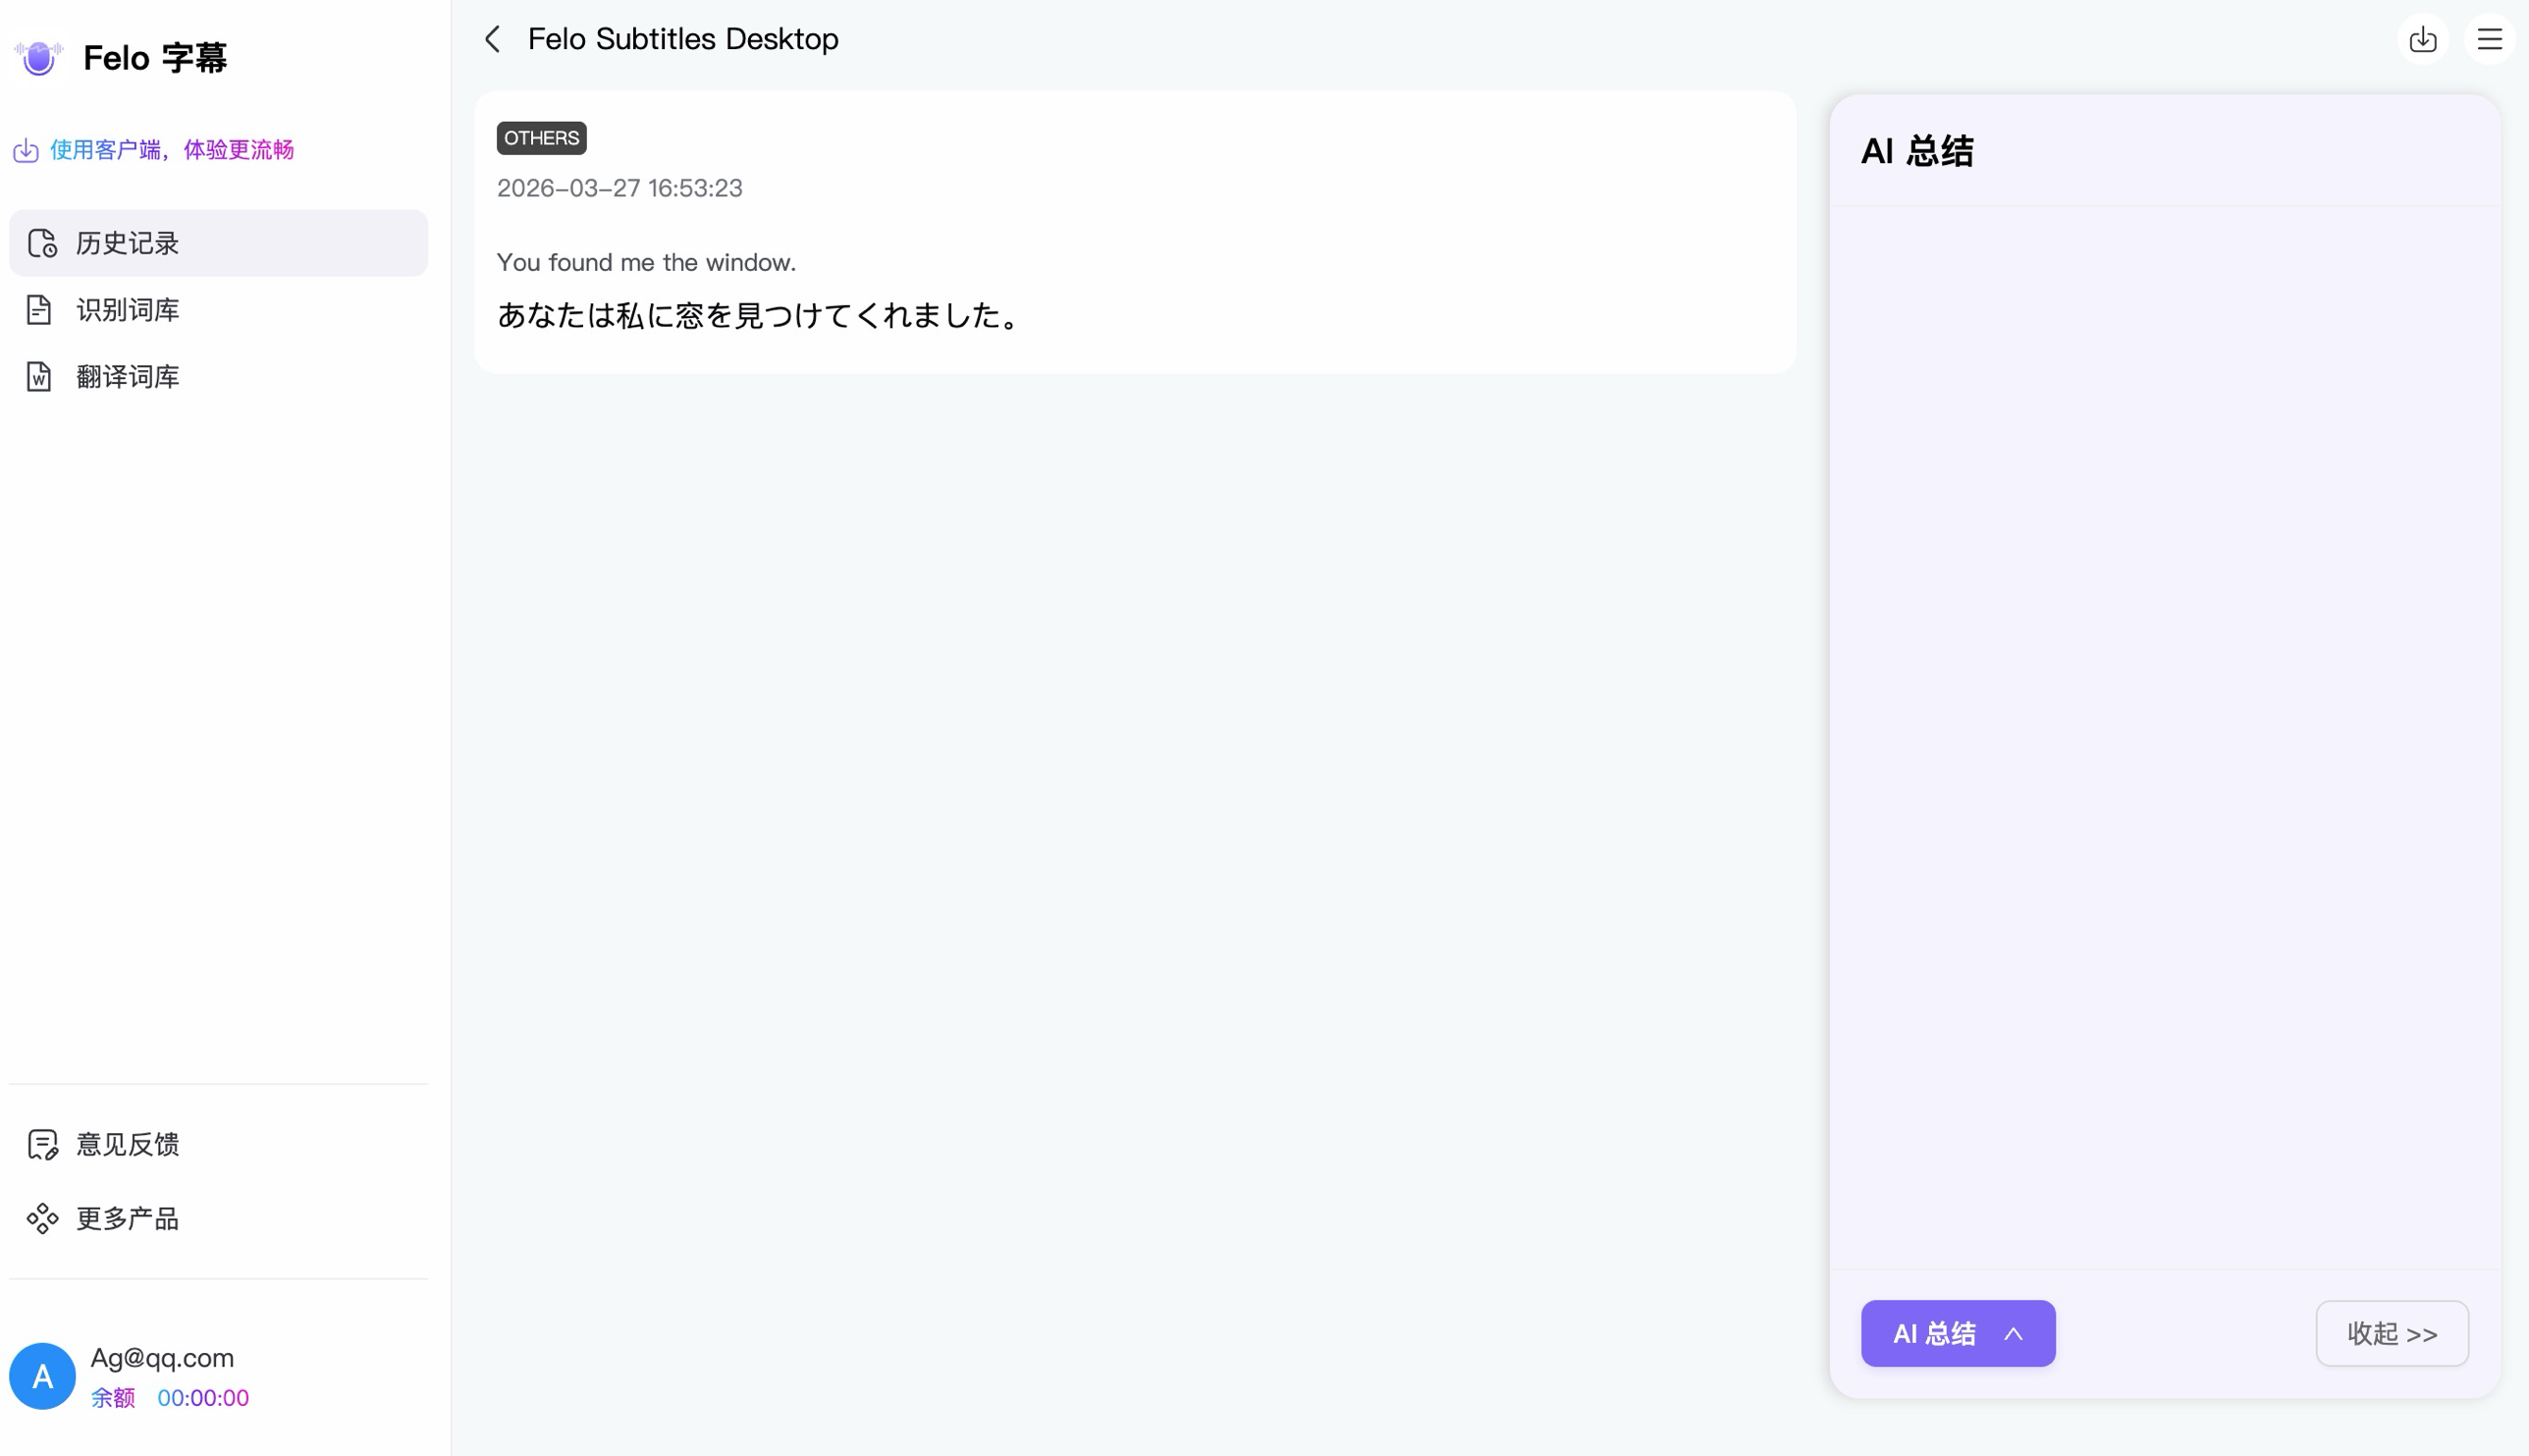
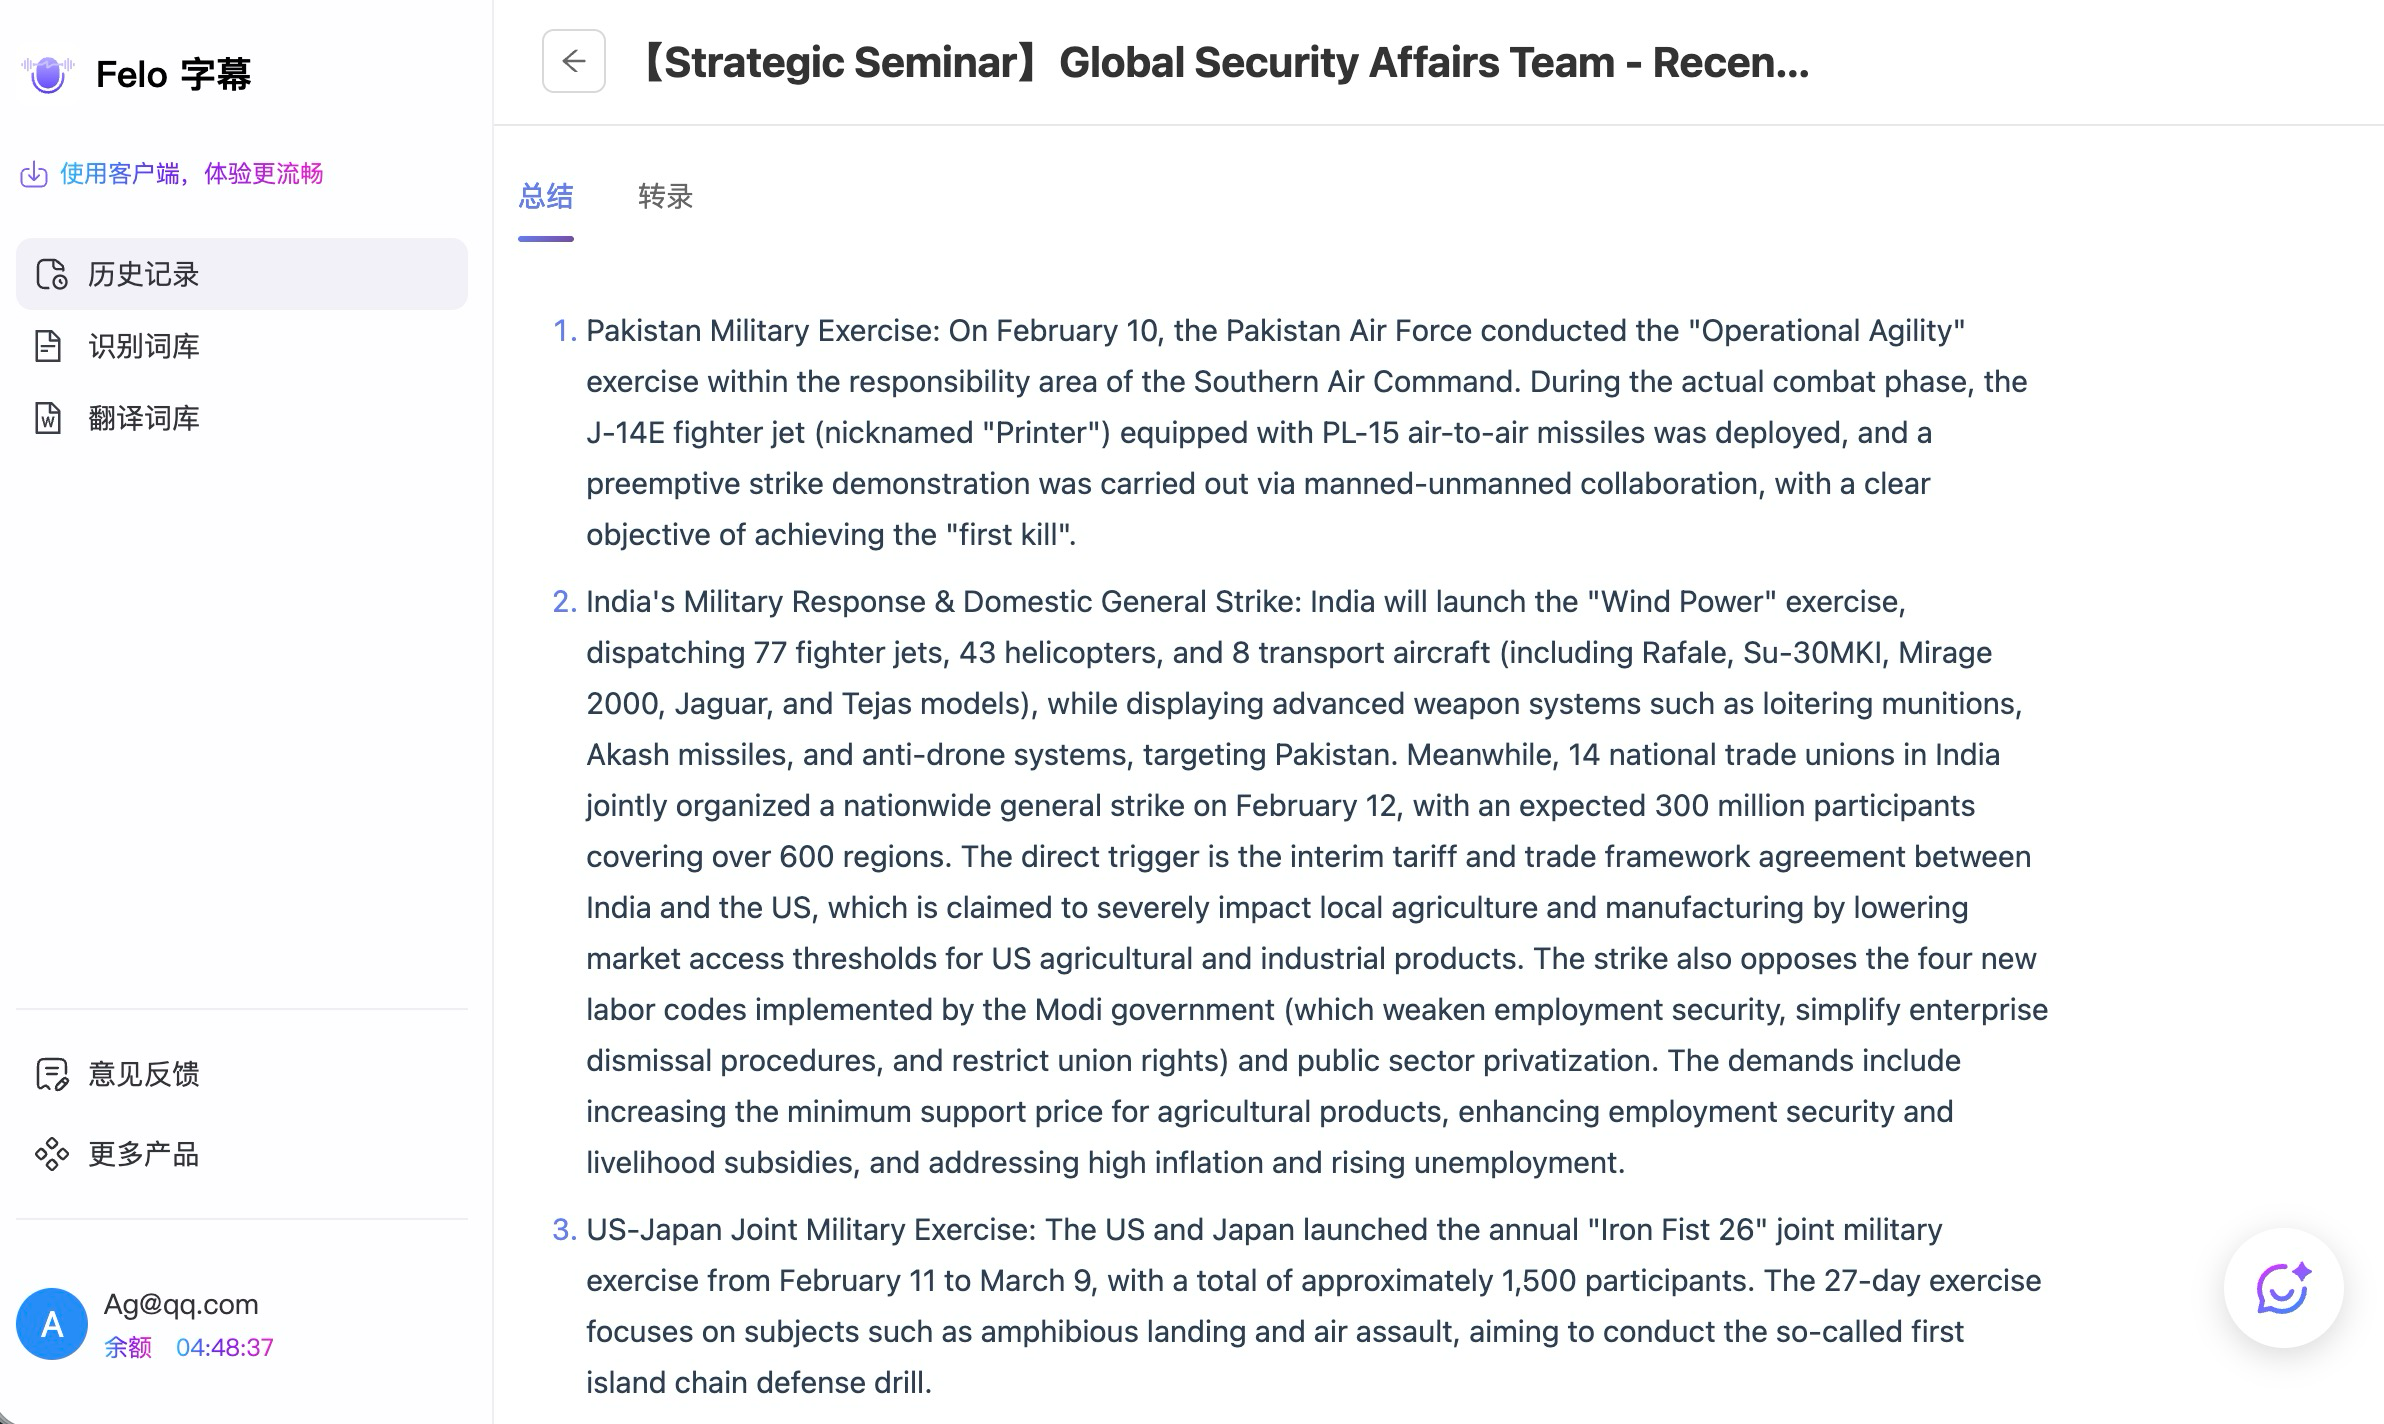
update image

diff --git a/shi-yong-fang-fa/li-shi-ji-lu.md b/shi-yong-fang-fa/li-shi-ji-lu.md
@@ -14,7 +14,6 @@ icon: clock-rotate-left
 <figure><img src="../.gitbook/assets/web-manual-history-list.png" alt=""><figcaption><p>历史记录一览</p></figcaption></figure>
 
 * **标题**：翻译启动时自动生成（例如翻译YouTube视频时，标题与网页标题一致）。无标题的记录显示为空。
-* **来源标签**：每条记录会标注来源（如 `OTHERS`），用于区分不同的翻译场景。
 * **翻译内容**：展示该会话首条翻译的原文和译文，方便快速识别。
 * **时间戳**：翻译开始的日期和时间。
 * **下载按钮（⬇）**：将该条翻译记录的全部内容导出为 txt 文件。
@@ -22,15 +21,17 @@ icon: clock-rotate-left
 
 ## 记录详情
 
-点击任意一条记录可进入详情页，查看完整的双语对照内容，并可使用右侧「AI 总结」对整段会话进行智能摘要。
+点击任意一条记录可进入详情页。详情页顶部有「**总结**」和「**转录**」两个标签：「**总结**」展示由 AI Agent 生成的结构化摘要，「**转录**」展示完整的双语对照原文。
 
-<figure><img src="../.gitbook/assets/web-manual-history-detail.png" alt=""><figcaption><p>历史记录详情页（含 AI 总结）</p></figcaption></figure>
+<figure><img src="../.gitbook/assets/web-manual-history-detail.png" alt=""><figcaption><p>历史记录详情页（总结 / 转录 标签）</p></figcaption></figure>
 
 ## AI Agent — 会议总结模板
 
-进入会议详情页后，可调用「**AI Agent**」根据不同会议场景生成结构化总结。点开后会弹出模板选择面板，目前提供 5 种模板：
+进入会议详情页后，可调用「**AI Agent**」根据不同会议场景生成结构化总结或翻译。面板顶部分为「**总结**」和「**翻译**」两个 Tab：「总结」用于生成会议摘要，「翻译」用于按指定风格翻译会议内容。
 
-<figure><img src="../.gitbook/assets/web-manual-ai-agent-templates.png" alt=""><figcaption><p>AI Agent 模板选择面板</p></figcaption></figure>
+「总结」Tab 下目前提供 5 种模板：
+
+<figure><img src="../.gitbook/assets/web-manual-ai-agent-templates.png" alt=""><figcaption><p>AI Agent 模板选择面板（总结 / 翻译）</p></figcaption></figure>
 
 | 模板 | 使用场景 |
 | --- | --- |